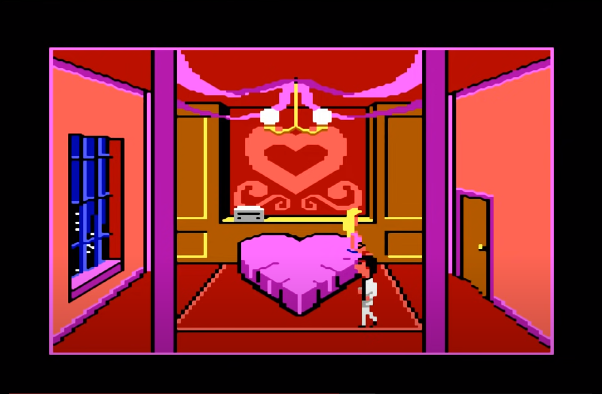
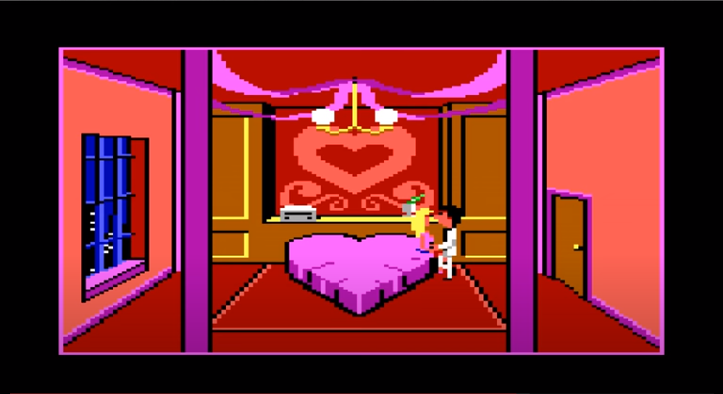
update

diff --git a/js/handleVerbs.js b/js/handleVerbs.js
@@ -92,9 +92,6 @@ export default function handleVerb(verb, noun)
             game.your_place = "b_hallwy";
             break;
           case "b_backrm":
-            game.your_place = "b_hallwy";
-            break;
-          case "b_backrm":
             game.your_place = "b_bar";
             break;
           case "b_g_dump":
@@ -329,14 +326,14 @@ export default function handleVerb(verb, noun)
           case "wine":
               if(game.your_place != "d_disco") 
                 functions.not_yet_but_maybe_later();
-              else if(functions.object_place(noun, game.your_place)) 
+              else if(!functions.object_place(noun, game.your_place)) 
                    functions.write_message("All out!");
                 else
                     {
                      functions.write_message("The waitress takes $100 and says she'll return");
-                      sleep(3000);
+                     functions.sleep(3000);
                      functions.write_message("Poor service!!!");
-                      sleep (2000);
+                     functions.sleep(2000);
                       game.cash --;
                       functions.put_object(noun, game.your_place);
                     }
@@ -422,12 +419,12 @@ export default function handleVerb(verb, noun)
       else if(! functions.object_visible(noun)) 
        functions.find_me_one();
       else if(noun == "seeds") {
-          functions.put_object ("water", false);
+          functions.put_object ("water", "nowhere");
           game.pitcher_full = false;
           if(game.your_place == p_garden) {
              functions.write_message("A tree sprouts!!");
               functions.put_object ("tree", game.your_place);
-              functions.put_object ("seeds", false);
+              functions.put_object ("seeds", "nowhere");
           }
           else
            functions.write_message("The seeds need better soil to grow.");
@@ -436,7 +433,7 @@ export default function handleVerb(verb, noun)
       else
         
          functions.write_message("It pours into the ground.");
-          functions.put_object ("water", false);
+          functions.put_object ("water", "nowhere");
           game.pitcher_full = false;
         
       break;
@@ -497,20 +494,20 @@ export default function handleVerb(verb, noun)
             case "desk":
               Close(game.drawer_open);
               if(functions.object_visible("newspaper")) {
-                functions.put_object ("newspaper", false);
+                functions.put_object ("newspaper", "nowhere");
               }
               break;
           case "closet":
               Close (game.closet_open);
               if(functions.object_visible("doll")) {
-                functions.put_object ("doll", false);
+                functions.put_object ("doll", "nowhere");
               }
               break;
           case "cabinet":
             if(game.stool_climbed) {
                 Close ("cabinet_open");
                 if(functions.object_visible("pitcher")) 
-                  functions.put_object ("pitcher", false);
+                  functions.put_object ("pitcher", "nowhere");
                 else
                  functions.write_message("I can't reach it!");
                 }
@@ -548,9 +545,8 @@ export default function handleVerb(verb, noun)
          functions.write_long_message (33);
         game.cash -=30;
         functions.put_object ("girl", "c_hmoons");
-        married_to_girl = true;
+        game.married_to_girl = true;
         functions.add_exit (game.your_place, " and South");
-
         //Path c_hallwy, south = c_hmoons
       }
       break;
@@ -580,7 +576,7 @@ export default function handleVerb(verb, noun)
             if(functions.is_carried("doll")) {
               if(game.doll_inflated) {
                    functions.write_long_message (22);
-                  functions.put_object ("doll", false);
+                  functions.put_object ("doll", "nowhere");
                   functions.drop_object("doll");
                 }
               else
@@ -733,9 +729,9 @@ break;
   break;
     case "call":
     case "dial":
-    if(game.your_place = p_pntpch) 
+    if(game.your_place == "p_pntpch") 
      functions.write_message("This only takes incoming calls!!");
-    else if((noun = "555-6969") && (! game.called_555_6969)) {
+    else if((noun == "555-6969") && (! game.called_555_6969)) {
        functions.write_message ("")
        functions.write_message ("A voice says 'Hello, please answer the questions with one word answers")
         girl_name = prompt("What's your favorite girls name?  ")
@@ -751,11 +747,11 @@ break;
           your_part = Lcase(your_part)
           your_object = Lcase(your_object)
     }
-    else if((noun = "555-0439") && (! game.called_555_0439)) {
+    else if((noun == "555-0439") && (! game.called_555_0439)) {
          functions.write_long_message (34)
         game.called_555_0439 = true;
     }
-    else if((noun = "555-0987") && game.married_to_girl && (! game.called_555_0987)) {
+    else if((noun == "555-0987") && game.married_to_girl && (! game.called_555_0987)) {
          functions.write_long_message (35)
         game.wine_ordered = true;
         game.called_555_0987 = true;
@@ -926,6 +922,7 @@ break;
       break;
     case "restore":
       var obj = JSON.parse(localStorage.getItem('lsl_saved_game'));
+      console.log(obj);
       functions.restore_inventory(obj.objects_carried);
       game = obj;
       game_functions.GetLocationDescription ();
@@ -994,15 +991,18 @@ break;
         }
       }
       if(functions.is_carried("wine")) {
-        wine_in_taxi();
-        game.your_place = new_place;
-        functions.put_object ("wine", false);
-        game.remove_object(noun);
+          functions.wine_in_taxi();
+          game.your_place = new_place;
+          functions.put_object ("wine", "nowhere");
+          //game.remove_object(noun);
     }
+      else
+      {
       functions.write_message("We arrive and I get out.");
       game.cash-=5;
       game.your_place = new_place;
-  break;
+        }
+    break;
     case "take":
     case "get":
     case "grab":
@@ -1078,36 +1078,36 @@ break;
         if(noun == "pitcher" && pitcher_full) 
           functions.put_object ("water", game.your_place);
         else if(noun == "rubber") 
-          rubber_worn = false;
+          game.rubber_worn = false;
         else if(game.your_place == "d_disco" && (functions.object_visible("girl")) && (noun == "candy" || noun == "flowers" || noun == "ring")) 
         {
             switch(noun)
             {
               case "candy":
                  functions.write_message("She smiles and eats a couple!!");
-                  candy_given = true;
+                  game.candy_given = true;
+                  functions.put_object ("candy", game.your_place);
                   break;
               case "flowers":
                functions.write_message("She blushes profusely and puts them in her hair!");
-                  flowers_given = true;
-                  functions.put_object ("flowers", false);
+               game.flowers_given = true;
+                  functions.put_object ("flowers", "nowhere");
                 break;              
               case "ring":
                  functions.write_message("She blushes and puts it in her purse.");
-                  ring_given = true;
-                  functions.put_object ("ring", false);
+                 game.ring_given = true;
+                  functions.put_object ("ring", "nowhere");
                   break;
             }
-            if(candy_given && flowers_given && ring_given) {
+            if(game.candy_given && game.flowers_given && game.ring_given) {
               
                functions.write_message("She says: 'See you at the Marriage Center!!'");
                 functions.put_object ("girl", "c_marryc");
               }
         }
         else if(game.your_place =="d_street" && functions.object_visible("bum") && (noun == "wine")) {
-          
-            if(functions.object_place("knife", game.your_place) = false) {
-                bum_tells_story();
+            if(!functions.object_visible("knife") && functions.object_place("knife", game.your_place)) {
+                functions.bum_tells_story();
                 functions.put_object ("knife", game.your_place);
             }            
             else
@@ -1166,8 +1166,7 @@ break;
         functions.put_object ("ring", game.your_place);
         break;
       case "graffiti":
-        console.log('look graffiti');
-        look_graffiti();
+        functions.look_graffiti();
         break;
       case "mirror":
        functions.write_message("There's a pervert looking back at me!!");
@@ -1283,7 +1282,7 @@ break;
        functions.write_message("It says 'Hail taxi here'");
         break;
       case "girl":
-          if(game.your_place == p_jacuzzi) 
+          if(game.your_place == "p_jacuzzi") 
              functions.write_long_message (5);
           else if(game.your_place == "d_disco" || (game.your_place == "c_marryc")) 
              functions.write_long_message (4);

diff --git a/js/functions.js b/js/functions.js
@@ -3,7 +3,7 @@ import objectData from "../assets/json/objects.json" assert { type: "json" };
 import locationData from "../assets/json/locations.json" assert { type: "json" };
 import * as game_functions from "./game.js";
 
-export {is_carried, I_cant_go_that_way, take_inventory,
+export {is_carried, I_cant_go_that_way, take_inventory, sleep, wine_in_taxi, bum_tells_story,
     huh,I_cant_do_that,I_dont_know_that_word,I_dont_have_it,I_already_have_it,
     I_see_nothing_special,give_help,not_yet_but_maybe_later,add_exit, buy_rubber,
     object_visible,object_place,write_message,OK,cant_do_that, write_long_message,
@@ -22,11 +22,16 @@ let I_see_nothing_special = () => write_message ("I see nothing special");
 let give_help = () => write_long_message(30);
 let not_yet_but_maybe_later = () => write_message ("Not yet but maybe later!");
 let add_exit = (strloc) => locationData.locations.find(location => location.ABBR==strloc).OTHERFLAG = true;
-let object_place = (noun, strloc) => objectData.objects.find(object => object.ABBR==noun && object.LOCATION==strloc).object==null;
 let write_message = (msg) => document.getElementById("actions").value= msg;
 let I_see_something = () => write_message ("I see something!!!");
 let OK = () => write_message ("OK");
+let sleep_time=5000;
 
+function object_place(noun, strloc)
+{
+  let obj = objectData.objects.find(object => object.ABBR==noun && object.LOCATION==strloc);
+  return  obj != null;
+}
 
 function object_visible(noun)
 {
@@ -250,10 +255,10 @@ function sleep(ms) {
   return new Promise(resolve => setTimeout(resolve, ms));
 }
 
-function purgatory()
+async function purgatory()
 {
     var choice, door;
-    sleep(sleep_time);
+    await sleep(sleep_time);
     door = 0;
     var c = write_message("Choose your door as 1, 2 or 3??  ");
     choice = c;
@@ -268,17 +273,14 @@ function purgatory()
     }    
 } 
 
-function bum_tells_story()
+async function bum_tells_story()
 {
-  var i, j;
-  write_message ("He looks at me and starts to speakas");
-  sleep(sleep_time);
+  write_message ("He looks at me and starts to speak");
+  await sleep(sleep_time);
   write_long_message (9)
-  write_message("");
-  sleep(sleep_time);
-  write_message (" ");
+  await sleep(sleep_time*2);
   write_message ("Like I did!!");
-  sleep(sleep_time);
+  await sleep(sleep_time);
   write_message ("He throws up and gives me back the bottle of wine.");
 }
 
@@ -296,15 +298,7 @@ function watch_TV(TV_channel)
 
 function wine_in_taxi()
 {
-  write_long_message (58);
-  sleep(sleep_time);
-  write_message ("");
-  write_message ("What shall I do? ");
-  sleep (sleep_time);
-  write_message ("");
-  write_message ("");
-  write_message ("The idiot cab driver backs over me and kills me!!!!!!");
-  purgatory();
+  write_long_message (28);
 }
 
 function stab_someone()

diff --git a/index.html b/index.html
@@ -16,19 +16,19 @@
       <td>
         <h1>LEISURE SUIT LARRY</h1>
         <label for="location">Location:</label>
-      <input type="text" id="location" style='width:100%;'>
+      <input type="text" id="location" style='width:100%;' readonly>
       <label for="items">Items in sight:</label>
-      <input type="text" id="items" style='width:100%;'>
+      <input type="text" id="items" style='width:100%;' readonly>
       <label for="exits">Exits:</label>
-      <input type="text" id="exits" style='width:100%;'>
+      <input type="text" id="exits" style='width:100%;' readonly>
       </td>
       <td><img id = "gameImage" src="./assets/images/splash.png" width="100%" height="100%"></td>
     </tr>
     </table>
     <label for="description">Description:</label>
-    <textarea type="text" id="description"  style='width:100%;height:100px' ></textarea><p>
+    <textarea type="text" id="description"  style='width:100%;height:100px' readonly ></textarea><p>
       <label for="actions">Actions:</label>
-      <textarea type="text" id="actions"  style='width:100%;height:100px' ></textarea><p>
+      <textarea type="text" id="actions"  style='width:100%;height:100px'  readonly></textarea><p>
      <table style='width:100%; border: 1px solid black;'>
     <tr>
      <td> <p>
@@ -37,7 +37,7 @@
    </td>
     <td><p>
     <label for="inventory">Inventory:</label>
-      <textarea type="text" id="inventory"  style='width:100%;' name="inventory"></textarea><p>
+      <textarea type="text" id="inventory"  style='width:100%;' name="inventory" readonly></textarea><p>
       </td>
     </tr>
     <tr>

diff --git a/js/game.js b/js/game.js
@@ -9,6 +9,7 @@ export {show_inventory,show_visible_items,GetLocationDescription};
 Start_Game();
 
 var input = document.getElementById("action");
+document.getElementById("action").focus();
 
 input.addEventListener("keypress", function(event) {
   if (event.key === "Enter") {
@@ -20,6 +21,12 @@ input.addEventListener("keypress", function(event) {
 window.Submit_Click = () => {
 let command=document.getElementById("action").value;
 if(command == "")  return;
+
+document.getElementById("location").value ="";
+document.getElementById("description").value ="";
+document.getElementById("actions").value ="";
+document.getElementById("action").value ="";
+
 let verb = command.split(' ')[0].toLowerCase();
 let noun;
 if(command.split(' ').length>1)
@@ -28,6 +35,7 @@ handleVerb(verb, noun);
 GetLocationDescription ();
 show_inventory();
 document.getElementById("action").value = "";
+document.getElementById("action").focus();
 }
 
 function Start_Game(){
@@ -46,6 +54,7 @@ function GetLocationDescription(){
   const otherExits = loc.OTHERFLAG ? loc.OTHEREXITS : '';
   document.getElementById("exits").value =loc.OTHERAREAS+' '+otherExits;
   show_visible_items();
+  SwitchPic(game.your_place);
 }
 
 function show_visible_items(){
